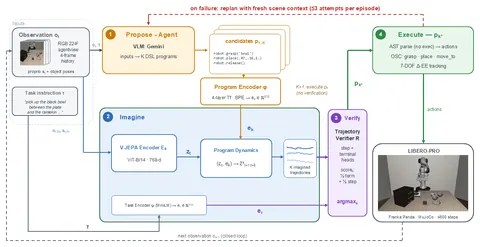
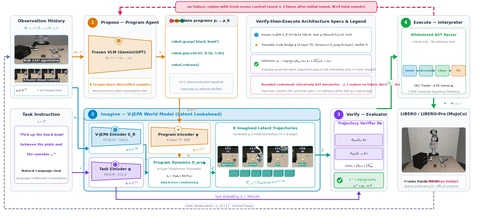
feat: set physical superintelligence preview image and add AFFORD-Bench project page

diff --git a/_includes/head.html b/_includes/head.html
@@ -9,7 +9,14 @@
   {% capture page_title %}{{ page.title | default: site.title | strip_html | strip_newlines }} · {{ site.title }}{% endcapture %}
 {% endif %}
 {% assign page_desc = page.description | default: page.excerpt | default: site.description | strip_html | strip_newlines | truncate: 200 %}
-{% assign og_image = site.author.avatar | default: "profile.webp" | prepend: "/images/" | absolute_url %}
+{% assign og_image_path = page.og_image | default: page.header.teaser | default: site.og_image | default: "physical_superintelligence_white_bg.jpg" %}
+{% if og_image_path contains "://" %}
+  {% assign og_image = og_image_path %}
+{% elsif og_image_path contains "/images/" %}
+  {% assign og_image = og_image_path | absolute_url %}
+{% else %}
+  {% assign og_image = og_image_path | prepend: "/images/" | absolute_url %}
+{% endif %}
 
 <title>{{ page_title }}</title>
 <meta name="description" content="{{ page_desc }}">
@@ -23,7 +30,7 @@
 <meta property="og:description" content="{{ page_desc }}">
 <meta property="og:url" content="{{ page.url | absolute_url }}">
 <meta property="og:image" content="{{ og_image }}">
-<meta name="twitter:card" content="summary">
+<meta name="twitter:card" content="{{ page.twitter_card | default: 'summary_large_image' }}">
 <meta name="twitter:title" content="{{ page_title }}">
 <meta name="twitter:description" content="{{ page_desc }}">
 <meta name="twitter:image" content="{{ og_image }}">
@@ -66,7 +73,7 @@
   "@type": "Person",
   "name": "{{ site.author.name | default: site.name }}",
   "url": "{{ '/' | absolute_url }}",
-  "image": "{{ og_image }}",
+  "image": "{{ site.author.avatar | default: 'profile.webp' | prepend: '/images/' | absolute_url }}",
   "jobTitle": "Graduate Research Assistant",
   "affiliation": {
     "@type": "CollegeOrUniversity",

diff --git a/_pages/about.md b/_pages/about.md
@@ -3,6 +3,7 @@ permalink: /
 layout: home
 title: Home
 description: "Md Selim Sarowar: M.Sc. student in Computer Vision & AI at Yeungnam University (GKS Scholar). Research in 3D computer vision, 6D pose estimation, vision-language-action models, world models, and agentic robotics toward physical super intelligence."
+og_image: "physical_superintelligence_white_bg.jpg"
 redirect_from:
   - /about/
   - /about.html
